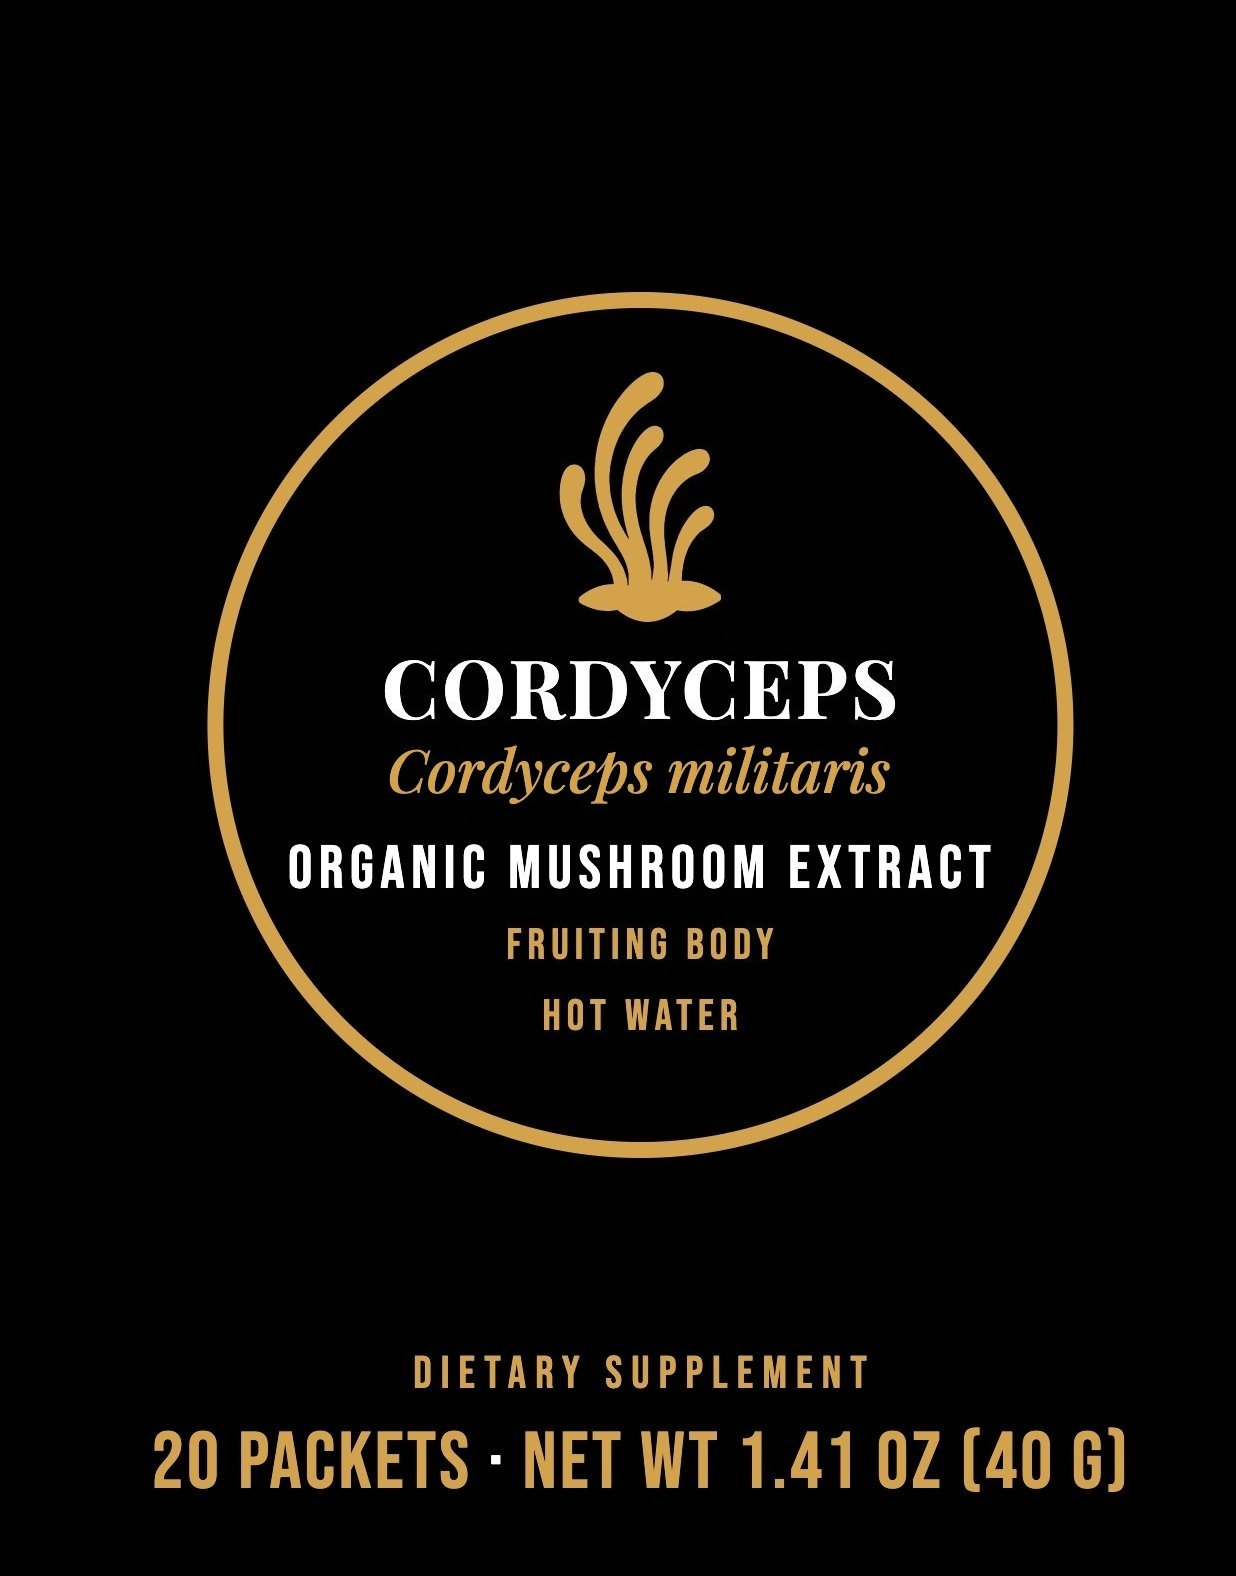
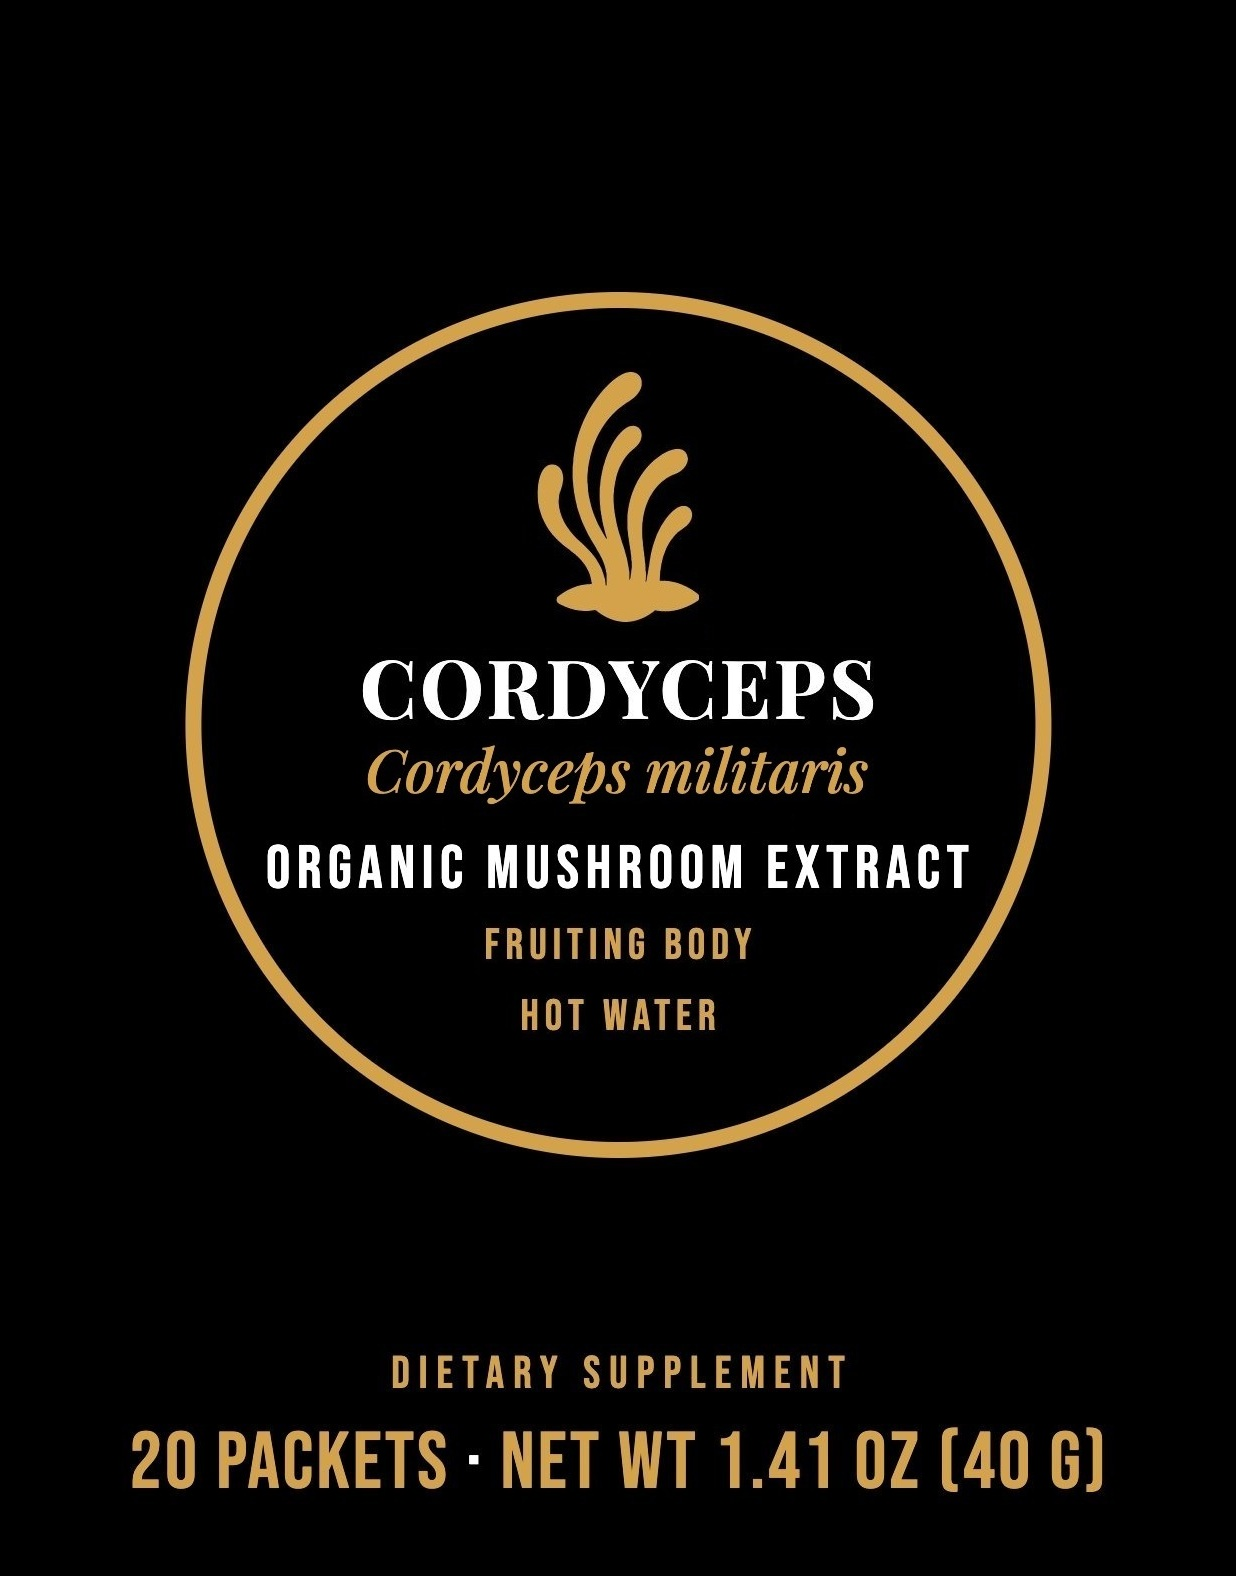
Tin fronts: seal circle centered; Shop sizes and tin scale updated to Jerry's packet stack (single 4.25 in, combo 6 in)
Claude-Session: https://claude.ai/code/session_01MhYC1AY8xeCEEXMzs5T9VR

Changed region(s): [[0.123, 0.1865, 0.8916, 0.7462], [0.0922, 0.8395, 0.9223, 0.9638]]

diff --git a/index.html b/index.html
@@ -1610,7 +1610,7 @@ html body .cx-sec .cx-track>.mx-box[style*="lm-grandpa-football-park"][style*="l
 <div data-tin="true" style="position:relative;width:86%;margin-top:22.3%;filter:drop-shadow(0 26px 30px rgba(0,0,0,.85))">
 <div aria-hidden="true" style="position:relative;width:102%;margin-left:-1%;aspect-ratio:80/8.6;background:linear-gradient(90deg,#050505 0%,#1A1A18 20%,#3A3936 42%,#1C1C1A 64%,#0B0B0A 85%,#030303 100%);border-radius:3px 3px 1px 1px;box-shadow:inset 0 1px 0 rgba(255,255,255,.28),inset 0 -2px 3px rgba(0,0,0,.55);border-bottom:1px solid rgba(212,162,74,.55)"></div>
 <div style="position:relative;background:#000">
-<img src="assets/photo/tins/rcx-front-lions-mane.jpg?v=9" alt="Lion's Mane steel tin front" style="width:100%;aspect-ratio:80/102;height:auto;display:block" loading="lazy">
+<img src="assets/photo/tins/rcx-front-lions-mane.jpg?v=10" alt="Lion's Mane steel tin front" style="width:100%;aspect-ratio:80/102;height:auto;display:block" loading="lazy">
 <div aria-hidden="true" style="position:absolute;inset:0;pointer-events:none;background:linear-gradient(90deg,rgba(0,0,0,.45) 0%,rgba(0,0,0,0) 9%,rgba(255,255,255,.05) 34%,rgba(255,255,255,0) 50%,rgba(0,0,0,0) 88%,rgba(0,0,0,.5) 100%),linear-gradient(180deg,rgba(0,0,0,.35) 0%,rgba(0,0,0,0) 4%,rgba(0,0,0,0) 94%,rgba(0,0,0,.4) 100%);box-shadow:inset 0 0 0 1px rgba(212,162,74,.32)"></div>
 </div>
 </div>
@@ -1627,7 +1627,7 @@ html body .cx-sec .cx-track>.mx-box[style*="lm-grandpa-football-park"][style*="l
 <div data-tin="true" style="position:relative;width:86%;margin-top:22.3%;filter:drop-shadow(0 26px 30px rgba(0,0,0,.85))">
 <div aria-hidden="true" style="position:relative;width:102%;margin-left:-1%;aspect-ratio:80/8.6;background:linear-gradient(90deg,#050505 0%,#1A1A18 20%,#3A3936 42%,#1C1C1A 64%,#0B0B0A 85%,#030303 100%);border-radius:3px 3px 1px 1px;box-shadow:inset 0 1px 0 rgba(255,255,255,.28),inset 0 -2px 3px rgba(0,0,0,.55);border-bottom:1px solid rgba(212,162,74,.55)"></div>
 <div style="position:relative;background:#000">
-<img src="assets/photo/tins/rcx-front-cordyceps.jpg?v=9" alt="Cordyceps steel tin front" style="width:100%;aspect-ratio:80/102;height:auto;display:block" loading="lazy">
+<img src="assets/photo/tins/rcx-front-cordyceps.jpg?v=10" alt="Cordyceps steel tin front" style="width:100%;aspect-ratio:80/102;height:auto;display:block" loading="lazy">
 <div aria-hidden="true" style="position:absolute;inset:0;pointer-events:none;background:linear-gradient(90deg,rgba(0,0,0,.45) 0%,rgba(0,0,0,0) 9%,rgba(255,255,255,.05) 34%,rgba(255,255,255,0) 50%,rgba(0,0,0,0) 88%,rgba(0,0,0,.5) 100%),linear-gradient(180deg,rgba(0,0,0,.35) 0%,rgba(0,0,0,0) 4%,rgba(0,0,0,0) 94%,rgba(0,0,0,.4) 100%);box-shadow:inset 0 0 0 1px rgba(212,162,74,.32)"></div>
 </div>
 </div>
@@ -1644,7 +1644,7 @@ html body .cx-sec .cx-track>.mx-box[style*="lm-grandpa-football-park"][style*="l
 <div data-tin="true" style="position:relative;width:86%;margin-top:22.3%;filter:drop-shadow(0 26px 30px rgba(0,0,0,.85))">
 <div aria-hidden="true" style="position:relative;width:102%;margin-left:-1%;aspect-ratio:80/8.6;background:linear-gradient(90deg,#050505 0%,#1A1A18 20%,#3A3936 42%,#1C1C1A 64%,#0B0B0A 85%,#030303 100%);border-radius:3px 3px 1px 1px;box-shadow:inset 0 1px 0 rgba(255,255,255,.28),inset 0 -2px 3px rgba(0,0,0,.55);border-bottom:1px solid rgba(212,162,74,.55)"></div>
 <div style="position:relative;background:#000">
-<img src="assets/photo/tins/rcx-front-turkey-tail.jpg?v=9" alt="Turkey Tail steel tin front" style="width:100%;aspect-ratio:80/102;height:auto;display:block" loading="lazy">
+<img src="assets/photo/tins/rcx-front-turkey-tail.jpg?v=10" alt="Turkey Tail steel tin front" style="width:100%;aspect-ratio:80/102;height:auto;display:block" loading="lazy">
 <div aria-hidden="true" style="position:absolute;inset:0;pointer-events:none;background:linear-gradient(90deg,rgba(0,0,0,.45) 0%,rgba(0,0,0,0) 9%,rgba(255,255,255,.05) 34%,rgba(255,255,255,0) 50%,rgba(0,0,0,0) 88%,rgba(0,0,0,.5) 100%),linear-gradient(180deg,rgba(0,0,0,.35) 0%,rgba(0,0,0,0) 4%,rgba(0,0,0,0) 94%,rgba(0,0,0,.4) 100%);box-shadow:inset 0 0 0 1px rgba(212,162,74,.32)"></div>
 </div>
 </div>
@@ -1660,7 +1660,7 @@ html body .cx-sec .cx-track>.mx-box[style*="lm-grandpa-football-park"][style*="l
 <div data-tin="true" style="position:relative;width:86%;margin-top:3%;filter:drop-shadow(0 26px 30px rgba(0,0,0,.85))">
 <div aria-hidden="true" style="position:relative;width:102%;margin-left:-1%;aspect-ratio:80/8.6;background:linear-gradient(90deg,#33090D 0%,#4E1015 18%,#7A232A 40%,#5C1319 62%,#3E0A0F 84%,#2C0609 100%);border-radius:3px 3px 1px 1px;box-shadow:inset 0 1px 0 rgba(255,255,255,.28),inset 0 -2px 3px rgba(0,0,0,.55);border-bottom:1px solid rgba(212,162,74,.55)"></div>
 <div style="position:relative;background:#5C1319">
-<img src="assets/photo/tins/rcx-front-combo.jpg?v=9" alt="Mushroom Combo packet front" style="width:100%;aspect-ratio:80/127;height:auto;display:block" loading="lazy">
+<img src="assets/photo/tins/rcx-front-combo.jpg?v=10" alt="Mushroom Combo packet front" style="width:100%;aspect-ratio:80/127;height:auto;display:block" loading="lazy">
 <div aria-hidden="true" style="position:absolute;inset:0;pointer-events:none;background:linear-gradient(90deg,rgba(0,0,0,.45) 0%,rgba(0,0,0,0) 9%,rgba(255,255,255,.06) 34%,rgba(255,255,255,0) 50%,rgba(0,0,0,0) 88%,rgba(0,0,0,.5) 100%),linear-gradient(180deg,rgba(0,0,0,.35) 0%,rgba(0,0,0,0) 4%,rgba(0,0,0,0) 94%,rgba(0,0,0,.4) 100%);box-shadow:inset 0 0 0 1px rgba(212,162,74,.25)"></div>
 </div>
 </div>
@@ -1923,7 +1923,7 @@ html body .cx-sec .cx-track>.mx-box[style*="lm-grandpa-football-park"][style*="l
 </div>
 </section>
 
-<section class="clean-band" data-m="clean-band" data-cb="shop" style="background-image:linear-gradient(rgba(0,0,0,.5),rgba(0,0,0,.66)),url('assets/photo/mess-counter-v2.jpg')"><div class="cb-in"><span class="cb-tag">PRE-MEASURED</span><h2>NO SCOOP.<br>NO GUESSING.</h2><p>Every packet is exactly one 2g serving, measured for you. You never eyeball a scoop or level it off. Tear it open, pour it in, and you have the right amount every time. No tub to dig through and no powder on the counter.</p><div class="cb-chips"><span>PRE-MEASURED</span><span>NO GUESSING</span><span>NO MESS</span></div></div></section><section data-m="pack-sec" class="pk-sec"><div class="pk-wrap"><div class="mx-title"><h2>WHAT IT COMES IN</h2><p>A steel tin you keep. <span>A compostable box to refill it.</span></p></div><div class="pk-grid"><figure class="pk-tile pk-tin"><div class="pk-img"><img src="assets/photo/pack/tin-lm.webp?v=2" alt="Lion's Mane packaging" loading="lazy"></div><figcaption><span class="pk-name">Lion's Mane</span><span class="pk-kind">STEEL TIN · 20 PACKETS</span><span class="pk-dim">About 3.1 x 2.2 x 4 in</span></figcaption></figure><figure class="pk-tile pk-tin"><div class="pk-img"><img src="assets/photo/pack/tin-cd.webp?v=2" alt="Cordyceps packaging" loading="lazy"></div><figcaption><span class="pk-name">Cordyceps</span><span class="pk-kind">STEEL TIN · 20 PACKETS</span><span class="pk-dim">About 3.1 x 2.2 x 4 in</span></figcaption></figure><figure class="pk-tile pk-tin"><div class="pk-img"><img src="assets/photo/pack/tin-tt.webp?v=2" alt="Turkey Tail packaging" loading="lazy"></div><figcaption><span class="pk-name">Turkey Tail</span><span class="pk-kind">STEEL TIN · 20 PACKETS</span><span class="pk-dim">About 3.1 x 2.2 x 4 in</span></figcaption></figure><figure class="pk-tile pk-tin"><div class="pk-img"><img src="assets/photo/pack/tin-co.webp?v=3" alt="Triple Power packaging" loading="lazy"></div><figcaption><span class="pk-name">Triple Power</span><span class="pk-kind">COMBO STEEL TIN · 30 PACKETS</span><span class="pk-dim">About 3.1 x 2.2 x 5 in</span></figcaption></figure><figure class="pk-tile pk-box"><div class="pk-img"><img src="assets/photo/pack/box-lm.webp?v=4" alt="The Refill Box packaging" loading="lazy"></div><figcaption><span class="pk-name">The Refill Box</span><span class="pk-kind">COMPOSTABLE KRAFT · 40 PACKETS</span><span class="pk-dim">About 4.3 x 2.6 x 3.2 in</span></figcaption></figure><figure class="pk-tile pk-box"><div class="pk-img"><img src="assets/photo/pack/box-co.webp?v=4" alt="The Combo Box packaging" loading="lazy"></div><figcaption><span class="pk-name">The Combo Box</span><span class="pk-kind">COMPOSTABLE KRAFT · 60 PACKETS</span><span class="pk-dim">About 6.5 x 2.6 x 3.2 in</span></figcaption></figure></div><p class="pk-note">In the tin, the packets lie flat. In the box, they stand on edge like files. Turn the tin over and one slides out. Sizes are close; final sizes come with the molds.</p></div></section>
+<section class="clean-band" data-m="clean-band" data-cb="shop" style="background-image:linear-gradient(rgba(0,0,0,.5),rgba(0,0,0,.66)),url('assets/photo/mess-counter-v2.jpg')"><div class="cb-in"><span class="cb-tag">PRE-MEASURED</span><h2>NO SCOOP.<br>NO GUESSING.</h2><p>Every packet is exactly one 2g serving, measured for you. You never eyeball a scoop or level it off. Tear it open, pour it in, and you have the right amount every time. No tub to dig through and no powder on the counter.</p><div class="cb-chips"><span>PRE-MEASURED</span><span>NO GUESSING</span><span>NO MESS</span></div></div></section><section data-m="pack-sec" class="pk-sec"><div class="pk-wrap"><div class="mx-title"><h2>WHAT IT COMES IN</h2><p>A steel tin you keep. <span>A compostable box to refill it.</span></p></div><div class="pk-grid"><figure class="pk-tile pk-tin"><div class="pk-img"><img src="assets/photo/pack/tin-lm.webp?v=2" alt="Lion's Mane packaging" loading="lazy"></div><figcaption><span class="pk-name">Lion's Mane</span><span class="pk-kind">STEEL TIN · 20 PACKETS</span><span class="pk-dim">About 3.2 x 2.2 x 4.25 in</span></figcaption></figure><figure class="pk-tile pk-tin"><div class="pk-img"><img src="assets/photo/pack/tin-cd.webp?v=2" alt="Cordyceps packaging" loading="lazy"></div><figcaption><span class="pk-name">Cordyceps</span><span class="pk-kind">STEEL TIN · 20 PACKETS</span><span class="pk-dim">About 3.2 x 2.2 x 4.25 in</span></figcaption></figure><figure class="pk-tile pk-tin"><div class="pk-img"><img src="assets/photo/pack/tin-tt.webp?v=2" alt="Turkey Tail packaging" loading="lazy"></div><figcaption><span class="pk-name">Turkey Tail</span><span class="pk-kind">STEEL TIN · 20 PACKETS</span><span class="pk-dim">About 3.2 x 2.2 x 4.25 in</span></figcaption></figure><figure class="pk-tile pk-tin"><div class="pk-img"><img src="assets/photo/pack/tin-co.webp?v=3" alt="Triple Power packaging" loading="lazy"></div><figcaption><span class="pk-name">Triple Power</span><span class="pk-kind">COMBO STEEL TIN · 30 PACKETS</span><span class="pk-dim">About 3.2 x 2.2 x 6 in</span></figcaption></figure><figure class="pk-tile pk-box"><div class="pk-img"><img src="assets/photo/pack/box-lm.webp?v=4" alt="The Refill Box packaging" loading="lazy"></div><figcaption><span class="pk-name">The Refill Box</span><span class="pk-kind">COMPOSTABLE KRAFT · 40 PACKETS</span><span class="pk-dim">About 4.3 x 3.6 x 3.2 in</span></figcaption></figure><figure class="pk-tile pk-box"><div class="pk-img"><img src="assets/photo/pack/box-co.webp?v=4" alt="The Combo Box packaging" loading="lazy"></div><figcaption><span class="pk-name">The Combo Box</span><span class="pk-kind">COMPOSTABLE KRAFT · 60 PACKETS</span><span class="pk-dim">About 6.5 x 3.6 x 3.2 in</span></figcaption></figure></div><p class="pk-note">In the tin, the packets lie flat. In the box, they stand on edge like files. Turn the tin over and one slides out. Sizes are close; final sizes come with the molds.</p></div></section>
 <section class="sr-sec" data-m="shop-research"><div class="sr-wrap"><div class="mx-title"><h2>THE RESEARCH</h2><p>Don't ask us. <span>Ask them.</span></p></div><div class="sr-grid"><a href="https://pubmed.ncbi.nlm.nih.gov/?term=%22Hericium+erinaceus%22" target="_blank" rel="noopener" class="mx-box mx-lab"><span class="lab-hd">LAB REPORT · PUBMED SEARCH · OCT 2026</span><span class="lab-title">LION'S MANE · HERICIUM ERINACEUS</span><span class="lab-rows"><span class="lab-row"><span class="lab-n">590</span><span class="lab-bar"><i style="width:100%"></i></span><span class="lab-l">PUBLISHED PAPERS</span></span><span class="lab-row"><span class="lab-n">343</span><span class="lab-bar"><i style="width:58%"></i></span><span class="lab-l">LAST FIVE YEARS</span></span><span class="lab-row"><span class="lab-n">170</span><span class="lab-bar"><i style="width:29%"></i></span><span class="lab-l">HUMAN RESEARCH</span></span><span class="lab-row"><span class="lab-n">7</span><span class="lab-bar"><i style="width:4%"></i></span><span class="lab-l">CLINICAL TRIALS</span></span></span><span class="lab-src">Source: U.S. National Library of Medicine</span><span class="mx-cta">SEARCH IT YOURSELF&nbsp;→</span></a><a href="https://pubmed.ncbi.nlm.nih.gov/?term=%22Cordyceps+militaris%22" target="_blank" rel="noopener" class="mx-box mx-lab"><span class="lab-hd">LAB REPORT · PUBMED SEARCH · OCT 2026</span><span class="lab-title">CORDYCEPS · CORDYCEPS MILITARIS</span><span class="lab-rows"><span class="lab-row"><span class="lab-n">2,946</span><span class="lab-bar"><i style="width:100%"></i></span><span class="lab-l">PAPERS, ALL CORDYCEPS</span></span><span class="lab-row"><span class="lab-n">1,070</span><span class="lab-bar"><i style="width:36%"></i></span><span class="lab-l">C. MILITARIS, IN YOUR PACKET</span></span><span class="lab-row"><span class="lab-n">641</span><span class="lab-bar"><i style="width:22%"></i></span><span class="lab-l">HUMAN RESEARCH</span></span><span class="lab-row"><span class="lab-n">40</span><span class="lab-bar"><i style="width:4%"></i></span><span class="lab-l">CLINICAL TRIALS</span></span></span><span class="lab-src">Source: U.S. National Library of Medicine</span><span class="mx-cta">SEARCH IT YOURSELF&nbsp;→</span></a><a href="https://pubmed.ncbi.nlm.nih.gov/?term=%22Trametes+versicolor%22+OR+%22Coriolus+versicolor%22" target="_blank" rel="noopener" class="mx-box mx-lab"><span class="lab-hd">LAB REPORT · PUBMED SEARCH · OCT 2026</span><span class="lab-title">TURKEY TAIL · TRAMETES VERSICOLOR</span><span class="lab-rows lab-big"><span class="lab-row"><span class="lab-n">1,800</span><span class="lab-bar"><i style="width:100%"></i></span><span class="lab-l">PUBLISHED PAPERS</span></span><span class="lab-row"><span class="lab-n">221</span><span class="lab-bar"><i style="width:12%"></i></span><span class="lab-l">HUMAN RESEARCH</span></span><span class="lab-row"><span class="lab-n">101</span><span class="lab-bar"><i style="width:6%"></i></span><span class="lab-l">CLINICAL TRIALS</span></span></span><span class="lab-src">Source: U.S. National Library of Medicine</span><span class="mx-cta">SEARCH IT YOURSELF&nbsp;→</span></a></div><div class="cx" style="margin-top:16px"><div class="cx-track"><a href="https://www.jstage.jst.go.jp/article/biomedres/40/4/40_125/_article" target="_blank" rel="noopener" class="mx-box" style="background-image:linear-gradient(to top,rgba(0,0,0,.94) 0%,rgba(0,0,0,.72) 55%,rgba(0,0,0,.4) 100%),url('assets/photo/lab-people.jpg');background-position:center,center"><span class="mx-tag">HUMAN TRIAL · PLACEBO CONTROLLED</span><span class="mx-head" style="font-size:clamp(22px,1.9vw,28px);max-width:26ch">Improvement of cognitive functions by oral intake of Hericium erinaceus</span><span class="mx-small">Biomedical Research, Japan, 2019</span><span class="mx-text">Healthy adults took lion's mane every day for twelve weeks and were scored on cognitive tests against a placebo group.</span><span class="mx-cta">READ IT&nbsp;→</span></a><a href="https://news.uq.edu.au/2023-02-10-mushrooms-magnify-memory-boosting-nerve-growth" target="_blank" rel="noopener" class="mx-box" style="background-image:linear-gradient(to top,rgba(0,0,0,.94) 0%,rgba(0,0,0,.72) 55%,rgba(0,0,0,.4) 100%),url('assets/photo/bamboo-window-lab.jpg');background-position:center,center"><span class="mx-tag">UNIVERSITY RESEARCH</span><span class="mx-head" style="font-size:clamp(22px,1.9vw,28px);max-width:26ch">Mushrooms magnify memory by boosting nerve growth</span><span class="mx-small">The University of Queensland, 2023</span><span class="mx-text">A university lab looking at compounds in lion's mane and how they affect nerve cell growth. Early science, from a real university.</span><span class="mx-cta">READ IT&nbsp;→</span></a><a href="https://journals.plos.org/plosone/article?id=10.1371/journal.pone.0351725" target="_blank" rel="noopener" class="mx-box" style="background-image:linear-gradient(to top,rgba(0,0,0,.94) 0%,rgba(0,0,0,.72) 55%,rgba(0,0,0,.4) 100%),url('assets/photo/hex-lab.jpg');background-position:center,center"><span class="mx-tag">RANDOMIZED CROSSOVER TRIAL</span><span class="mx-head" style="font-size:clamp(22px,1.9vw,28px);max-width:26ch">Cordyceps militaris and faster reaction times</span><span class="mx-small">PLOS ONE, archived by the National Library of Medicine</span><span class="mx-text">The same people were tested with and without cordyceps. Oxygen uptake and reaction time were measured.</span><span class="mx-cta">READ IT&nbsp;→</span></a><a href="https://www.sciencedirect.com/science/article/abs/pii/S156757690300290X" target="_blank" rel="noopener" class="mx-box" style="background-image:linear-gradient(to top,rgba(0,0,0,.94) 0%,rgba(0,0,0,.72) 55%,rgba(0,0,0,.4) 100%),url('assets/photo/reactors-lab.jpg');background-position:center,center"><span class="mx-tag">DOUBLE BLIND · PLACEBO CONTROLLED</span><span class="mx-head" style="font-size:clamp(22px,1.9vw,28px);max-width:26ch">Immune effects of Yun Zhi in healthy adults</span><span class="mx-small">International Immunopharmacology</span><span class="mx-text">Yun Zhi is turkey tail. Healthy adults, nobody knowing who got what, immune markers measured against placebo.</span><span class="mx-cta">READ IT&nbsp;→</span></a><a href="https://pubmed.ncbi.nlm.nih.gov/25006989/" target="_blank" rel="noopener" class="mx-box" style="background-image:linear-gradient(to top,rgba(0,0,0,.94) 0%,rgba(0,0,0,.72) 55%,rgba(0,0,0,.4) 100%),url('assets/photo/tank-lab.jpg');background-position:center,center"><span class="mx-tag">HUMAN TRIAL · GUT MICROBIOME</span><span class="mx-head" style="font-size:clamp(22px,1.9vw,28px);max-width:26ch">Turkey tail and the gut microbiome</span><span class="mx-small">PubMed, National Library of Medicine</span><span class="mx-text">How turkey tail's polysaccharopeptide affects the bacteria that live in the gut, in healthy volunteers.</span><span class="mx-cta">READ IT&nbsp;→</span></a><a href="https://pubmed.ncbi.nlm.nih.gov/" target="_blank" rel="noopener" class="mx-box" style="background-image:linear-gradient(to top,rgba(0,0,0,.94) 0%,rgba(0,0,0,.72) 55%,rgba(0,0,0,.4) 100%),url('assets/photo/mortar-lab.jpg');background-position:center,center"><span class="mx-tag">CHECK US YOURSELF</span><span class="mx-head" style="font-size:clamp(22px,1.9vw,28px);max-width:26ch">Search the Latin name at pubmed.gov</span><span class="mx-small">Free, from the U.S. National Library of Medicine</span><span class="mx-text">Type "Hericium erinaceus", "Cordyceps militaris" or "Trametes versicolor" in quotes, then filter by Clinical Trial.</span><span class="mx-cta">READ IT&nbsp;→</span></a></div><div class="rit-nav"><button class="rit-arrow" data-d="-1" onClick="{{ cxMove }}" aria-label="Previous">‹</button><span>SWIPE FOR MORE</span><button class="rit-arrow" data-d="1" onClick="{{ cxMove }}" aria-label="Next">›</button></div></div></div></section>
 <section data-m="soon-sec" style="padding:0 28px 110px;background:#000">
 <div style="max-width:1300px;margin:0 auto">
@@ -5530,7 +5530,7 @@ html body [data-screen-label] section[data-m="mush-files"][data-m="mush-files"][
 </style>
 <style id="tin-scale">
 /* Oct 12: tins drawn to scale. Same footprint, the 30 packet combo tin is about a quarter taller than the 20 packet singles */
-html body .pk-tile.pk-tin .pk-img .pk-img img, html body .pk-tile.pk-tin.pk-tin .pk-img img{height:80% !important;width:auto !important;max-height:none !important;max-width:none !important}
+html body .pk-tile.pk-tin .pk-img .pk-img img, html body .pk-tile.pk-tin.pk-tin .pk-img img{height:71% !important;width:auto !important;max-height:none !important;max-width:none !important}
 html body .pk-tile.pk-tin.pk-tin .pk-img img[src*="tin-co"]{height:99% !important}
 </style>
 </body>
